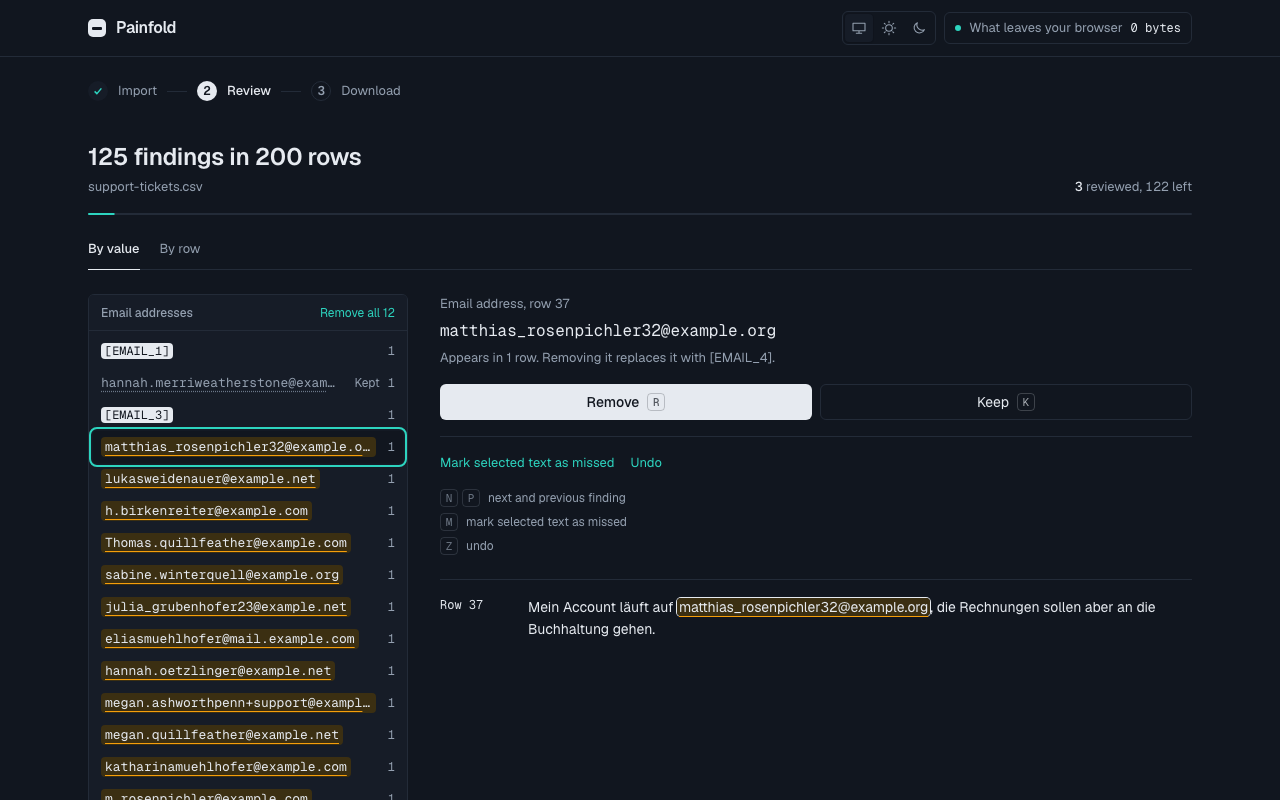
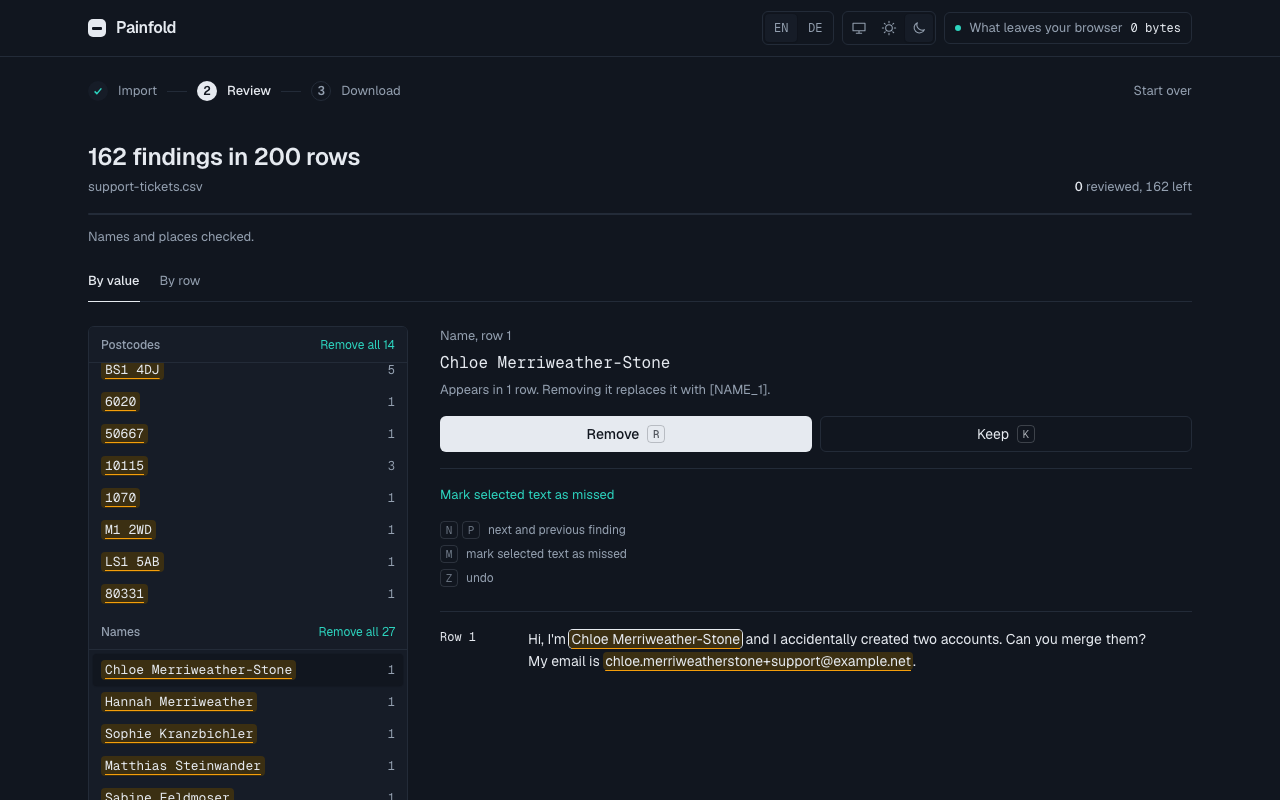
Prepare the v0.2.0 release
Version 0.2.0 and its changelog entry (unreleased until the tag), new README screenshots and demo with names (and an Accuracy page screenshot), and the roadmap showing v0.2 Names as available.

diff --git a/tests/e2e/roadmap.spec.ts b/tests/e2e/roadmap.spec.ts
@@ -24,7 +24,7 @@ test('the roadmap page is prerendered and lists every stage with the current one
   await expect(stages.first()).toContainText('Available')
   await expect(stages.nth(1)).toHaveAttribute('aria-current', 'step')
   await expect(stages.nth(1)).toContainText('Current stage')
-  await expect(stages.nth(1)).toContainText('In progress')
+  await expect(stages.nth(1)).toContainText('Available')
   await expect(stages.nth(2)).toContainText('Next')
   await expect(stages.nth(3)).toContainText('Planned')
   await expect(page.getByRole('link', { name: 'Read the full roadmap on GitHub' })).toHaveAttribute('href', 'https://github.com/akojif/painfold/blob/main/ROADMAP.md')

diff --git a/app/utils/roadmap.ts b/app/utils/roadmap.ts
@@ -14,7 +14,7 @@ export interface RoadmapStage {
 
 export const ROADMAP_STAGES: readonly RoadmapStage[] = [
   { id: 'clean', version: 'v0.1', status: 'available' },
-  { id: 'names', version: 'v0.2', status: 'inProgress' },
+  { id: 'names', version: 'v0.2', status: 'available' },
   { id: 'jobs', version: 'v0.3', status: 'next' },
   { id: 'report', version: 'v0.4', status: 'planned' },
   { id: 'sources', version: 'v0.5', status: 'planned' },

diff --git a/CHANGELOG.md b/CHANGELOG.md
@@ -2,6 +2,39 @@
 
 All notable changes to Painfold. Versions follow the stages in [ROADMAP.md](ROADMAP.md).
 
+## 0.2.0: Names (unreleased)
+
+Names and places are found too, with a model that runs in your browser, and the interface is in English and German. Nothing is uploaded.
+
+### Added
+
+- **Names and places**, found by a multilingual name model (Davlan/distilbert-base-multilingual-cased-ner-hrl, AFL-3.0) in your browser, plus rules for names after greetings, titles, thanks, sign-offs and introductions, with a first-name list covering 13 communities living in Austria. Long texts are checked in full, in overlapping parts.
+- **The name model download** is explained before it starts, with its size (152 MB). It comes from Painfold's own site, hash-checked, shows progress with Cancel, is kept in the browser and can be removed; offline, failure and full-storage cases are handled, and the rules keep working without it.
+- **Names in the background:** rule findings can be reviewed at once while names arrive, without moving focus; the download waits until names are checked, and Stop asks first. The cleaning report says whether names were checked.
+- **German interface** under /de/, with a language switch that keeps your work.
+- **Accuracy page** in the app (/accuracy): how well every kind of personal data is found, names per language and per name-origin group, names in long texts, the known gaps, and the model's licence.
+- **Drop a file anywhere**, on any step. Documents and transcripts (DOCX, PDF, VTT, SRT and more) get a note that they are on the roadmap; other file types say which files work.
+- **Start over** from any step, with a question first when work would be lost, and the browser's own warning when closing the tab mid-review.
+- **On a phone**, the start screen explains Painfold and suggests a bigger screen; Copy link or Continue anyway.
+- **The example** on the start screen reveals what each placeholder replaced, on hover, focus or tap.
+
+### Changed
+
+- Back on the column step, the review and its decisions are kept; changing column choices asks before resetting them.
+- Messages about files that did not open are toasts, so nothing on the page moves.
+- Links no longer end in arrows; the footer says "Built by Francis Akoji".
+
+### Measured
+
+- Names on the hand-written test split, measured in the browser once after tuning: 97 % removed (German 0.98, English 0.96), at least 92 % in every one of 13 name-origin groups, against a target of 90 %. Without the first-name list: 90 %. Details and known gaps: docs/accuracy.md and the Accuracy page.
+- Names in a 5,000-row file are checked in 70 to 115 seconds with the model in the browser.
+
+### Known limits
+
+- Lowercase nicknames that are not on the first-name list, names at the very start of a sentence without a greeting, some multi-part names and particles ("Saif ur Rehman"), and small towns can be missed; see the known gaps.
+- Names are not checked on small screens, where the model is not offered.
+- Warnings for indirect identifiers (job title plus small town, exact ages, rare roles) follow in v0.2.1.
+
 ## 0.1.0: Clean (2026-11-09)
 
 The first release: remove personal data from a feedback file in the browser and download the cleaned file. Nothing is uploaded.

diff --git a/README.md b/README.md
@@ -6,7 +6,7 @@ Painfold turns customer feedback into an evidence-backed customer profile: the j
 
 **[Try it at painfold.vercel.app](https://painfold.vercel.app)**, with your own file or the built-in sample of 200 made-up support tickets.
 
-![Painfold cleaning the sample file: the column step, finding personal data, reviewing values by value and by row, and the download step](docs/media/demo.gif)
+![Painfold cleaning the sample file: the column step, downloading the name model once, finding personal data and names, reviewing values by value and by row, and the download step](docs/media/demo.gif)
 
 ## What it does
 
@@ -18,11 +18,11 @@ Removes personal data from a CSV or XLSX file in your browser, and lets you down
 - Made for a laptop. On a phone the start screen explains Painfold and suggests a bigger screen; the full flow still works there, without the name model.
 - The same value always gets the same placeholder, such as `[EMAIL_3]`.
 
-Names and places are new in v0.2, which is in progress. Finding customer jobs, pains and gains follows in v0.3. See the [roadmap](ROADMAP.md) and the [changelog](CHANGELOG.md).
+Names and places are new in v0.2. Finding customer jobs, pains and gains follows in v0.3. See the [roadmap](ROADMAP.md) and the [changelog](CHANGELOG.md).
 
 <picture>
   <source media="(prefers-color-scheme: dark)" srcset="docs/media/review-dark.png">
-  <img alt="The review step: values grouped by type on the left, the selected value with Remove and Keep on the right, and the rows it appears in" src="docs/media/review-light.png">
+  <img alt="The review step: values grouped by type on the left, a name selected with Remove and Keep on the right, and the row it appears in" src="docs/media/review-light.png">
 </picture>
 
 <details>
@@ -33,6 +33,7 @@ Names and places are new in v0.2, which is in progress. Finding customer jobs, p
 | Start | ![Start screen, light](docs/media/start-light.png) | ![Start screen, dark](docs/media/start-dark.png) |
 | Columns | ![Column step, light](docs/media/columns-light.png) | ![Column step, dark](docs/media/columns-dark.png) |
 | Review | ![Review step, light](docs/media/review-light.png) | ![Review step, dark](docs/media/review-dark.png) |
+| Accuracy | ![Accuracy page, light](docs/media/accuracy-light.png) | ![Accuracy page, dark](docs/media/accuracy-dark.png) |
 
 </details>
 
